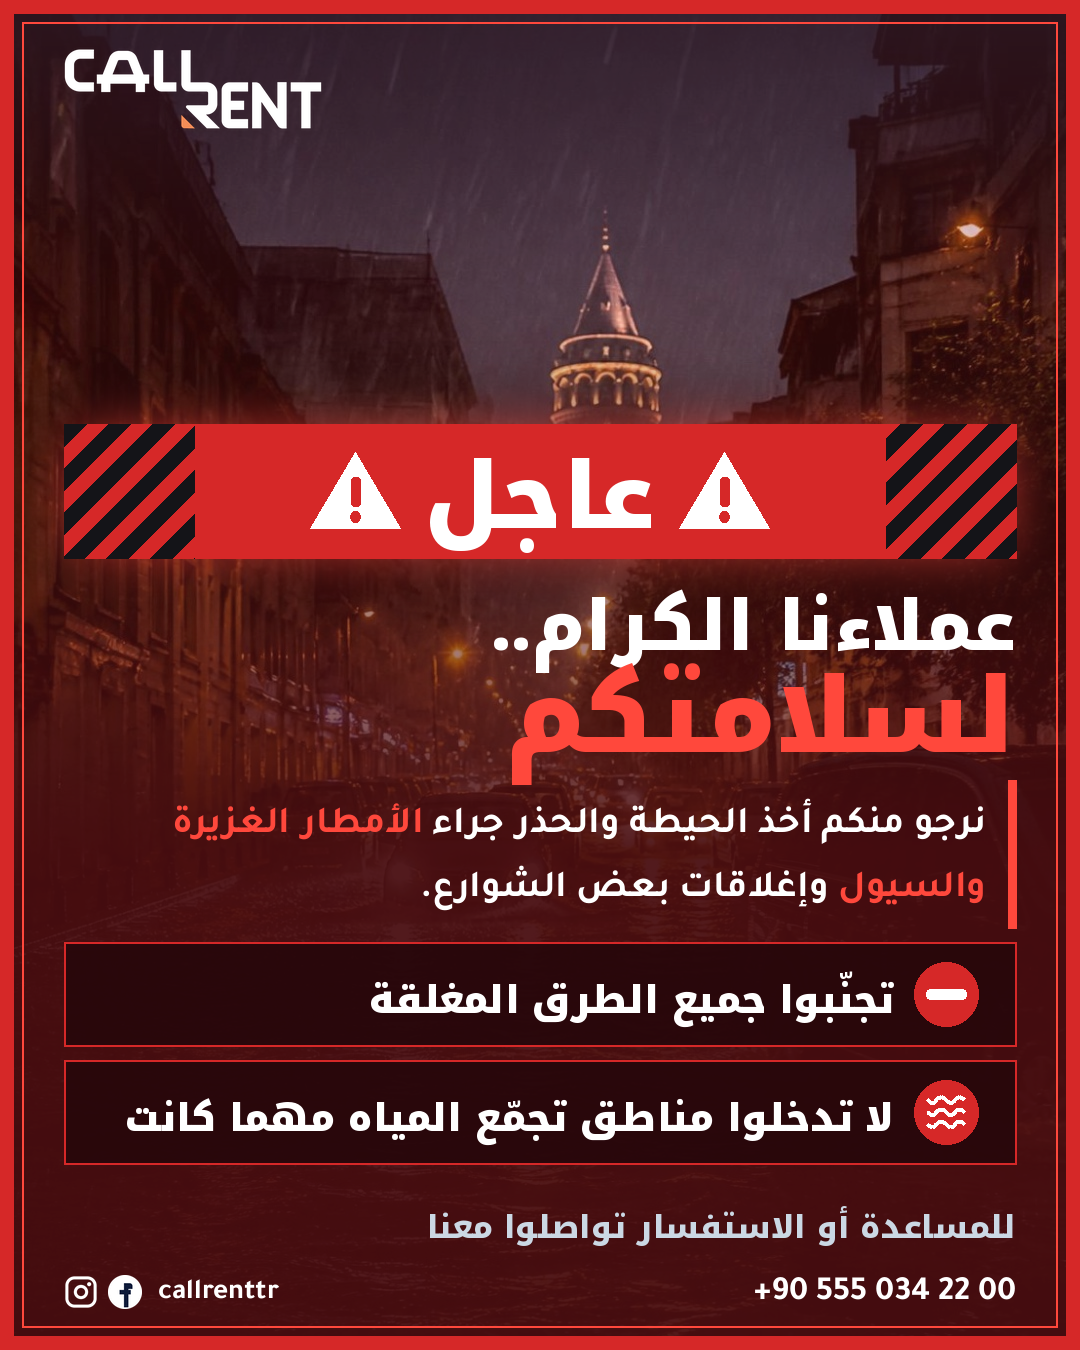
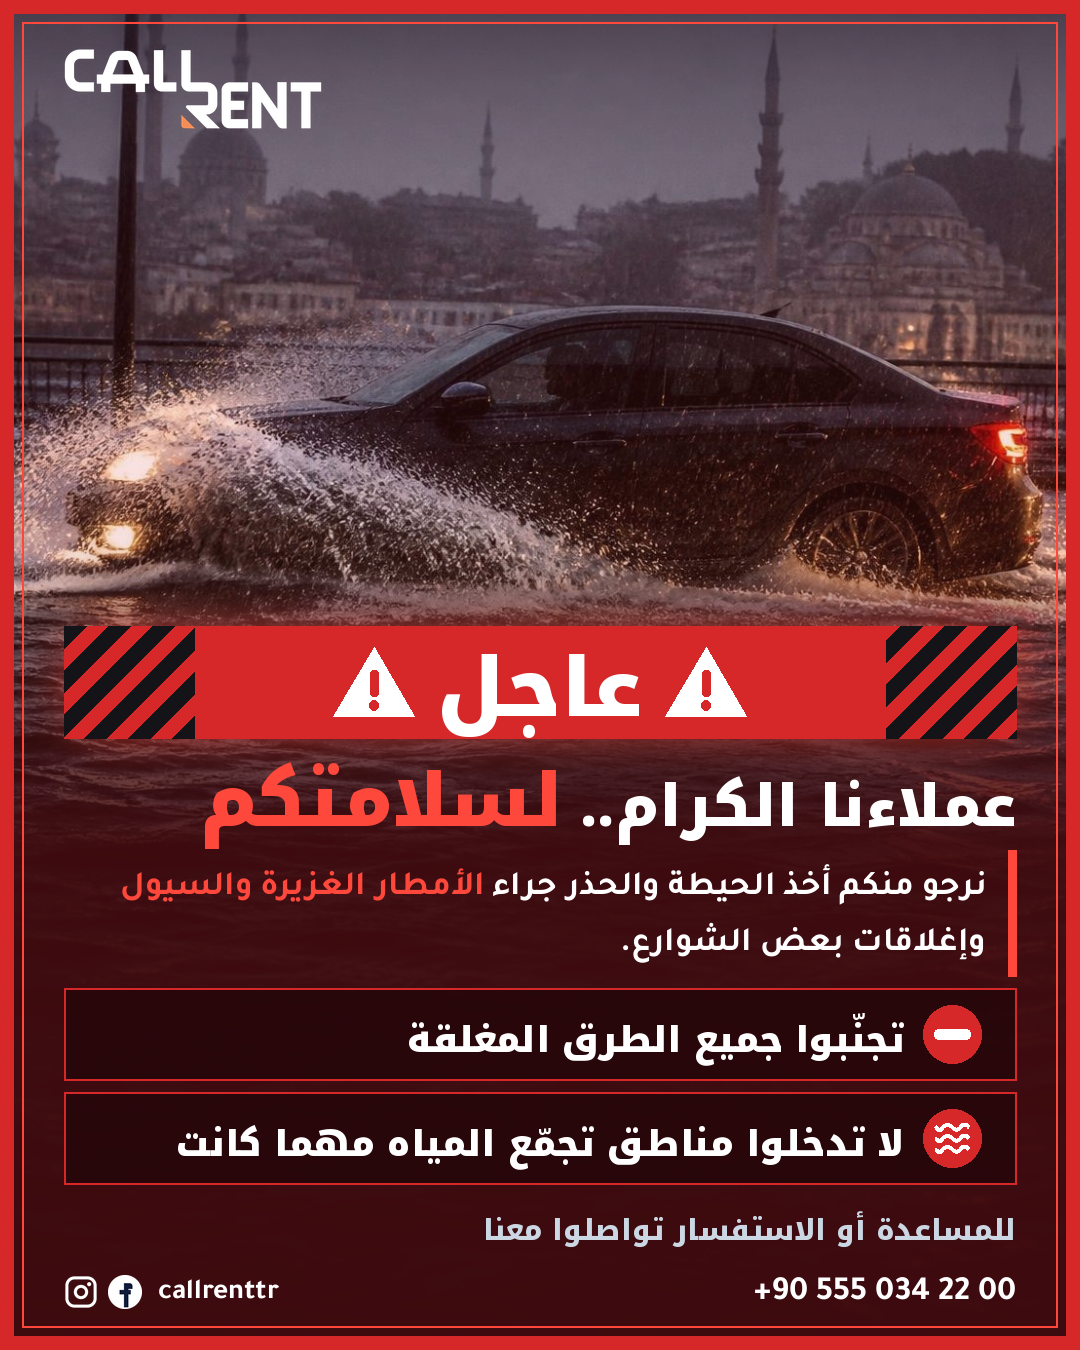
Flood alert: car-in-flood scene, text moved below the photo
Claude-Session: https://claude.ai/code/session_01JWxxZZBXcuDznNNTjM86b7

diff --git a/marketing/posts/flood_alert.py b/marketing/posts/flood_alert.py
@@ -21,7 +21,7 @@ nc.THEME = 'dark'
 
 def shade(cv):
     ys = np.arange(H, dtype=np.float32)
-    for a, tone in ((np.clip(1-ys/300, 0, 1)**1.3*0.70, DEEP), (np.clip((ys-430)/420, 0, 1)**1.1*0.93, BLOOD)):
+    for a, tone in ((np.clip(1-ys/260, 0, 1)**1.3*0.65, DEEP), (np.clip((ys-560)/280, 0, 1)**1.1*0.95, BLOOD)):
         lay = Image.new('RGBA', (W, H), tone+(0,))
         lay.putalpha(Image.fromarray((np.repeat(a[:, None], W, 1)*255).astype(np.uint8)))
         cv.alpha_composite(lay)
@@ -55,13 +55,13 @@ def main(bg_path, out):
     im = im.resize((round(im.width*s), round(im.height*s)), Image.LANCZOS)
     cv = im.crop(((im.width-W)//2, (im.height-H)//2, (im.width-W)//2+W, (im.height-H)//2+H))
     shade(cv)
-    tint = Image.new('RGBA', (W, H), ALERT+(46,)); cv.alpha_composite(tint)      # whole scene leans red
+    tint = Image.new('RGBA', (W, H), ALERT+(34,)); cv.alpha_composite(tint)      # whole scene leans red
     d = ImageDraw.Draw(cv)
     # logo
     lg = Image.open(LOGO_WHITE).convert('RGBA'); LW = 270
     cv.alpha_composite(lg.resize((LW, round(LW*lg.height/lg.width)), Image.LANCZOS), (M-6, 46))
     # 'عاجل' hazard banner: full width, the loudest thing on the page
-    by, bh = 424, 134
+    by, bh = 626, 112
     glow = Image.new('RGBA', (W, H), (0, 0, 0, 0)); ImageDraw.Draw(glow).rectangle((M-10, by-10, R_+10, by+bh+10), fill=ALERT_HI+(200,))
     cv.alpha_composite(glow.filter(ImageFilter.GaussianBlur(34)))
     stripe = Image.new('RGBA', (W, H), (0, 0, 0, 0)); sd = ImageDraw.Draw(stripe)
@@ -75,42 +75,44 @@ def main(bg_path, out):
     stripes_only = Image.new('RGBA', (W, H), (0, 0, 0, 0)); stripes_only.paste(stripe, (0, 0), tape)
     cv.alpha_composite(base); cv.alpha_composite(stripes_only)
     d = ImageDraw.Draw(cv)
-    fa = F(AR_BLACK, 92); label = 'عاجل'
-    lw = w_ar(label, fa); gapx = 30; ts = 78
+    fa = F(AR_BLACK, 82); label = 'عاجل'
+    lw = w_ar(label, fa); gapx = 28; ts = 70
     total = lw + 2*(ts+gapx); cx0 = W/2 - total/2
     warn_triangle(d, cx0 + ts/2, by+bh/2+2, ts, Wh+(255,), ALERT+(255,))
     d.text((W/2, by+bh/2+6), label, font=fa, fill=Wh+(255,), anchor='mm', direction='rtl', language='ar')
     warn_triangle(d, cx0 + total - ts/2, by+bh/2+2, ts, Wh+(255,), ALERT+(255,))
     # headline
-    d.text((R_, 650), 'عملاءنا الكرام..', font=F(AR_BLACK, 70), fill=Wh+(255,), anchor='rs', direction='rtl', language='ar')
-    d.text((R_, 752), 'لسلامتكم', font=F(AR_BLACK, 104), fill=ALERT_HI+(255,), anchor='rs', direction='rtl', language='ar')
+    fh1 = F(AR_BLACK, 58); fh2 = F(AR_BLACK, 74)
+    t1 = 'عملاءنا الكرام..'; t2 = 'لسلامتكم'
+    d.text((R_, 826), t1, font=fh1, fill=Wh+(255,), anchor='rs', direction='rtl', language='ar')
+    d.text((R_ - w_ar(t1, fh1) - 18, 826), t2, font=fh2, fill=ALERT_HI+(255,), anchor='rs', direction='rtl', language='ar')
     # message
-    fb = F(CT_FONT, 38)
+    fb = F(CT_FONT, 34)
     lines, sp = nc.wrap(nc.tokens([('نرجو منكم أخذ الحيطة والحذر جراء', Wh), ('الأمطار الغزيرة والسيول', ALERT_HI),
                                    ('وإغلاقات بعض الشوارع.', Wh)]), fb, R_ - M - 40)
-    y = 780
-    d.rectangle((R_-8, y, R_, y+len(lines)*64+20), fill=ALERT_HI+(255,))
-    nc.draw_lines(d, lines, sp, fb, R_-30, y+52, 64)
+    y = 850
+    d.rectangle((R_-8, y, R_, y+len(lines)*56+14), fill=ALERT_HI+(255,))
+    nc.draw_lines(d, lines, sp, fb, R_-30, y+44, 56)
     # two do-not rules
-    y = 780 + len(lines)*64 + 34
+    y = 850 + len(lines)*56 + 26
     rules = [(icon_no_entry, 'تجنّبوا جميع الطرق المغلقة'),
              (icon_waves, 'لا تدخلوا مناطق تجمّع المياه مهما كانت')]
     lay = Image.new('RGBA', (W, H), (0, 0, 0, 0)); ld = ImageDraw.Draw(lay)
-    rh = 104
+    rh = 92
     for i in range(len(rules)):
-        ld.rectangle((M, y+i*(rh+14), R_, y+i*(rh+14)+rh), fill=BLOOD+(232,), outline=ALERT+(255,), width=2)
+        ld.rectangle((M, y+i*(rh+12), R_, y+i*(rh+12)+rh), fill=BLOOD+(232,), outline=ALERT+(255,), width=2)
     cv.alpha_composite(lay); d = ImageDraw.Draw(cv)
     fr = F(AR_BLACK, 38)
     for i, (ic, txt) in enumerate(rules):
-        ry = y + i*(rh+14)
-        ic(d, R_-70, ry+rh/2, 64, ALERT)
-        size = 38
+        ry = y + i*(rh+12)
+        ic(d, R_-64, ry+rh/2, 58, ALERT)
+        size = 36
         while w_ar(txt, F(AR_BLACK, size)) > R_-M-150: size -= 2
-        d.text((R_-122, ry+rh/2+6), txt, font=F(AR_BLACK, size), fill=Wh+(255,), anchor='rm', direction='rtl', language='ar')
+        d.text((R_-112, ry+rh/2+6), txt, font=F(AR_BLACK, size), fill=Wh+(255,), anchor='rm', direction='rtl', language='ar')
     # help line + footer
-    y = y + len(rules)*(rh+14) + 30
-    fh = F(AR_BOLD, 32)
-    d.text((R_, y+30), 'للمساعدة أو الاستفسار تواصلوا معنا', font=fh, fill=SOFT+(255,), anchor='rs', direction='rtl', language='ar')
+    y = y + len(rules)*(rh+12) + 18
+    fh = F(AR_BOLD, 29)
+    d.text((R_, y+26), 'للمساعدة أو الاستفسار تواصلوا معنا', font=fh, fill=SOFT+(255,), anchor='rs', direction='rtl', language='ar')
     ic = load_icons(34); fc = F(nc.CT_FONT, 29); fy = 1292; x = M
     for k in ('ig', 'fb'):
         cv.alpha_composite(ic[k], (x, fy-17)); x += 44
